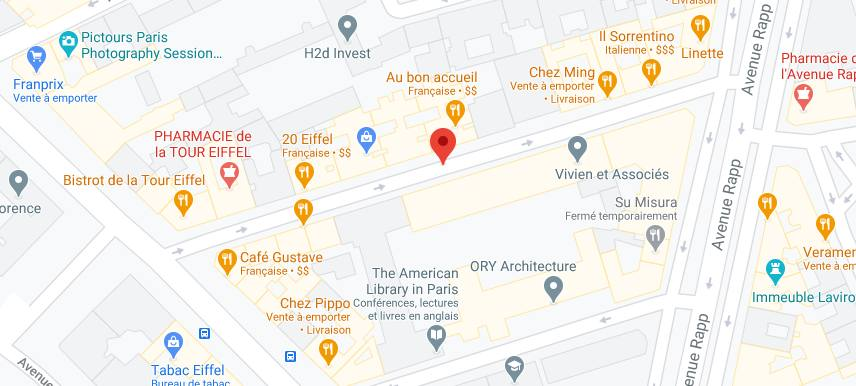
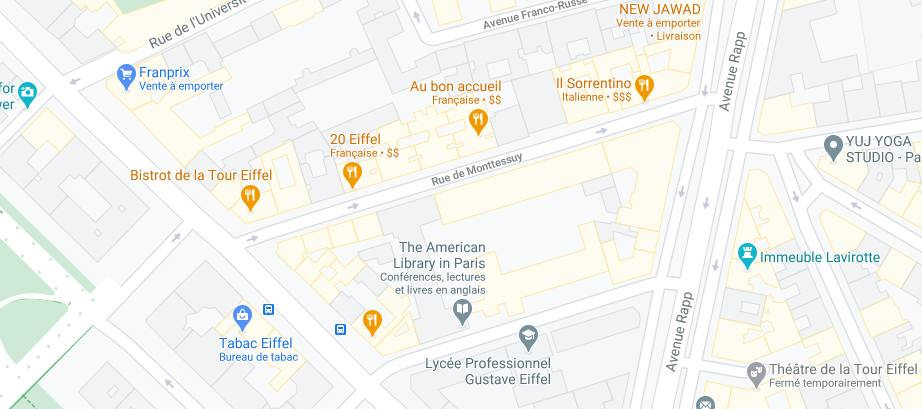
about fini

diff --git a/about.html b/about.html
@@ -63,24 +63,24 @@
     <img src="images/cuisto.jpg" alt="image d'un cuisinier" class="img-thumbnail">
 
   </section>
-
+</article>
 <!-------------- MAP de Paris à Span sur les deux colonnes ------------------------->
 
-  <section class="about5">
+<h3 class="text-center">Situation</h3>
 
-    <img src="images/map.jpg" alt="carte d'une rue de Paris" class="img-thumbnail">
-
-  </section>
+    <img src="images/map.jpg" alt="carte d'une rue de Paris" class="about5">
 
 
 
-</article>
+
+
+
 
 <!---------------------------------------------------  Footer -------------------------------------->
 <footer class="container3">
 
   <img src="images/resto2.jpeg" alt="image du restaurant" class="img-thumbnail">
-  <div class="centered"><p><strong>Adresse :<br>Rue de Monttessuy
+  <div class="centered"><p><strong>Adresse :<br>7, Rue de Monttessuy
     75007 Paris, France </strong></p></div>
 
   <div class="centered2"><p><strong>Heures d'ouverture :<br> Ouvert du lundi au dimanche et les jours fériés, sauf le mercredi<br>De 12h00 à 14h30

diff --git a/menu.html b/menu.html
@@ -7,7 +7,7 @@
     <link rel="stylesheet" href="https://stackpath.bootstrapcdn.com/bootstrap/4.3.1/css/bootstrap.min.css" integrity="sha384-ggOyR0iXCbMQv3Xipma34MD+dH/1fQ784/j6cY/iJTQUOhcWr7x9JvoRxT2MZw1T" crossorigin="anonymous">
     <link rel="stylesheet" type="text/css" href="style.css">
 
-    <title>Document</title>
+    <title>Notre Carte</title>
 </head>
 <body>
    <!---------------------------------------------------  Header -------------------------------------->
@@ -120,7 +120,7 @@
 <footer class="container3">
 
   <img src="images/resto2.jpeg" alt="image du restaurant" class="img-thumbnail">
-  <div class="centered"><p><strong>Adresse :<br>Rue de Monttessuy
+  <div class="centered"><p><strong>Adresse :<br>7, Rue de Monttessuy
     75007 Paris, France </strong></p></div>
 
   <div class="centered2"><p><strong>Heures d'ouverture :<br> Ouvert du lundi au dimanche et les jours fériés, sauf le mercredi<br>De 12h00 à 14h30

diff --git a/galerie.html b/galerie.html
@@ -7,7 +7,7 @@
     <link rel="stylesheet" type="text/css" href="style.css">
     <script src="https://kit.fontawesome.com/05e8f357d6.js" crossorigin="anonymous"></script>
 
-    <title>Document</title>
+    <title>Galerie</title>
 </head>
 <body>
  <!---------------------------------------------------  Header -------------------------------------->
@@ -70,7 +70,7 @@
 <footer class="container3">
 
     <img src="images/resto2.jpeg" alt="image du restaurant" class="img-thumbnail">
-    <div class="centered"><p><strong>Adresse :<br>Rue de Monttessuy
+    <div class="centered"><p><strong>Adresse :<br>7, Rue de Monttessuy
       75007 Paris, France </strong></p></div>
   
     <div class="centered2"><p><strong>Heures d'ouverture :<br> Ouvert du lundi au dimanche et les jours fériés, sauf le mercredi<br>De 12h00 à 14h30

diff --git a/galerie2.html b/galerie2.html
@@ -7,7 +7,7 @@
     <link rel="stylesheet" type="text/css" href="style.css">
     <script src="https://kit.fontawesome.com/05e8f357d6.js" crossorigin="anonymous"></script>
 
-    <title>Document</title>
+    <title>Galerie</title>
 </head>
 <body>
  <!---------------------------------------------------  Header -------------------------------------->
@@ -70,7 +70,7 @@
 <footer class="container3">
 
     <img src="images/resto2.jpeg" alt="image du restaurant" class="img-thumbnail">
-    <div class="centered"><p><strong>Adresse :<br>Rue de Monttessuy
+    <div class="centered"><p><strong>Adresse :<br>7, Rue de Monttessuy
       75007 Paris, France </strong></p></div>
   
     <div class="centered2"><p><strong>Heures d'ouverture :<br> Ouvert du lundi au dimanche et les jours fériés, sauf le mercredi<br>De 12h00 à 14h30

diff --git a/galerie3.html b/galerie3.html
@@ -7,7 +7,7 @@
     <link rel="stylesheet" type="text/css" href="style.css">
     <script src="https://kit.fontawesome.com/05e8f357d6.js" crossorigin="anonymous"></script>
 
-    <title>Document</title>
+    <title>Galerie</title>
 </head>
 <body>
  <!---------------------------------------------------  Header -------------------------------------->
@@ -71,7 +71,7 @@
 <footer class="container3">
 
     <img src="images/resto2.jpeg" alt="image du restaurant" class="img-thumbnail">
-    <div class="centered"><p><strong>Adresse :<br>Rue de Monttessuy
+    <div class="centered"><p><strong>Adresse :<br>7, Rue de Monttessuy
       75007 Paris, France </strong></p></div>
   
     <div class="centered2"><p><strong>Heures d'ouverture :<br> Ouvert du lundi au dimanche et les jours fériés, sauf le mercredi<br>De 12h00 à 14h30

diff --git a/galerie4.html b/galerie4.html
@@ -7,7 +7,7 @@
     <link rel="stylesheet" type="text/css" href="style.css">
     <script src="https://kit.fontawesome.com/05e8f357d6.js" crossorigin="anonymous"></script>
 
-    <title>Document</title>
+    <title>Galerie</title>
 </head>
 <body>
  <!---------------------------------------------------  Header -------------------------------------->
@@ -64,7 +64,7 @@
 <footer class="container3">
 
     <img src="images/resto2.jpeg" alt="image du restaurant" class="img-thumbnail">
-    <div class="centered"><p><strong>Adresse :<br>Rue de Monttessuy
+    <div class="centered"><p><strong>Adresse :<br>7, Rue de Monttessuy
       75007 Paris, France </strong></p></div>
   
     <div class="centered2"><p><strong>Heures d'ouverture :<br> Ouvert du lundi au dimanche et les jours fériés, sauf le mercredi<br>De 12h00 à 14h30

diff --git a/style.css b/style.css
@@ -167,7 +167,7 @@ header {
   display: grid;
 
   grid-template-columns: 1fr 1fr;
-  grid-template-rows: 1fr 1fr 1fr 1fr ;
+  grid-template-rows: 1fr 1fr;
   margin-top: 20px;
   margin-right: 10px;
   margin-left: 10px;
@@ -193,10 +193,15 @@ header {
   grid-row: 2;
 }
 .about5 {
-  display: grid;
-  grid-column: 2 ;
-  grid-row: 3;
+  display: block;
+  margin-left: auto;
+  margin-right: auto;
+  margin-top: 5%;
+  margin-bottom: 5%;
+  width: 80%;
   
+
+
 }
 
 /*--------------------------------------footer-------------------------------------------------------------*/

diff --git a/index.html b/index.html
@@ -80,7 +80,7 @@
     <footer class="container3">
 
       <img src="images/resto2.jpeg" alt="image du restaurant" class="img-thumbnail">
-      <div class="centered"><p><strong>Adresse :<br>Rue de Monttessuy
+      <div class="centered"><p><strong>Adresse :<br>7, Rue de Monttessuy
         75007 Paris, France </strong></p></div>
 
       <div class="centered2"><p><strong>Heures d'ouverture :<br> Ouvert du lundi au dimanche et les jours fériés, sauf le mercredi<br>De 12h00 à 14h30

diff --git a/contact.html b/contact.html
@@ -43,7 +43,7 @@
 <footer class="container3">
 
   <img src="images/resto2.jpeg" alt="image du restaurant" class="img-thumbnail">
-  <div class="centered"><p><strong>Adresse :<br>Rue de Monttessuy
+  <div class="centered"><p><strong>Adresse :<br>7, Rue de Monttessuy
     75007 Paris, France </strong></p></div>
 
   <div class="centered2"><p><strong>Heures d'ouverture :<br> Ouvert du lundi au dimanche et les jours fériés, sauf le mercredi<br>De 12h00 à 14h30
